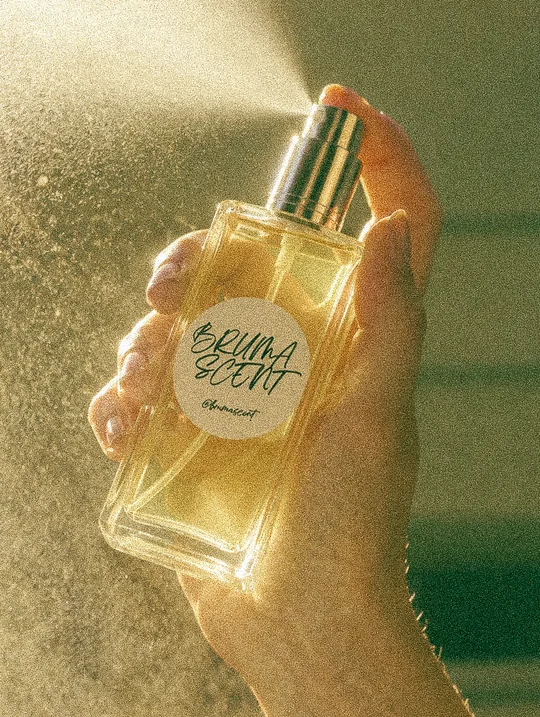
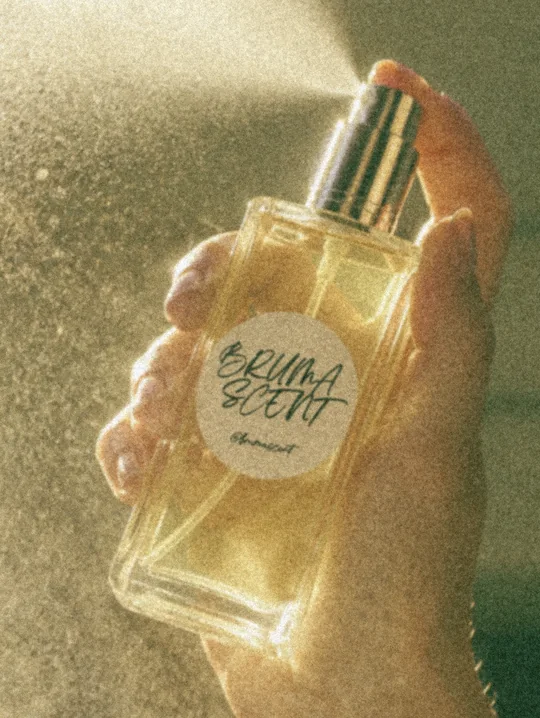
Nueva foto en la portada
Claude-Session: https://claude.ai/code/session_01GP9HaQqxfroLHMo8LTLi3x

diff --git a/index.html b/index.html
@@ -13,7 +13,7 @@
 <link rel="preconnect" href="https://fonts.googleapis.com">
 <link rel="preconnect" href="https://fonts.gstatic.com" crossorigin>
 <link rel="stylesheet" href="https://fonts.googleapis.com/css2?family=Bodoni+Moda:ital,opsz,wght@0,6..96,400;0,6..96,500;1,6..96,400&family=Jost:wght@300;400;500&display=swap">
-<link rel="stylesheet" href="estilos.css?v=12">
+<link rel="stylesheet" href="estilos.css?v=13">
 </head>
 <body>
 
@@ -35,8 +35,8 @@
   <!-- ===== PORTADA: foto de margen a margen ===== -->
   <section class="portada" aria-labelledby="portadaTit">
     <picture>
-      <source media="(max-width: 760px)" srcset="img/portada-movil.webp">
-      <img class="portada-foto" src="img/portada.webp" alt="Mano rociando un perfume Bruma Scent a contraluz" width="1086" height="1448" fetchpriority="high">
+      <source media="(max-width: 760px)" srcset="img/portada-movil.webp?v=3">
+      <img class="portada-foto" src="img/portada.webp?v=3" alt="Mano rociando un perfume Bruma Scent a contraluz" width="1086" height="1448" fetchpriority="high">
     </picture>
     <div class="portada-txt">
       <p class="portada-pre">Dupes de alta calidad</p>
@@ -97,7 +97,7 @@
         <p>Así puedes tener varios aromas para distintos momentos del día, sin gastar lo de uno solo.</p>
       </div>
       <figure class="calidad-img">
-        <img src="img/detalle.webp" alt="Frasco de Bruma Scent en la mano" width="540" height="717" loading="lazy">
+        <img src="img/detalle.webp?v=3" alt="Frasco de Bruma Scent en la mano" width="540" height="717" loading="lazy">
       </figure>
     </div>
   </section>

diff --git a/estilos.css b/estilos.css
@@ -93,7 +93,7 @@ body::before { content: ""; position: fixed; inset: 0 0 auto; height: env(safe-a
 
 .portada { position: relative; height: 100vh; height: 100svh; min-height: 600px; max-height: 1000px; overflow: hidden; }
 .portada picture, .portada-foto { display: block; width: 100%; height: 100%; }
-.portada-foto { object-fit: cover; object-position: 50% 42%; max-width: none; }
+.portada-foto { object-fit: cover; object-position: 50% 40%; max-width: none; }
 .portada::after { /* velo cálido a la izquierda para que el texto se lea */
   content: ""; position: absolute; inset: 0; pointer-events: none;
   background:
@@ -117,7 +117,7 @@ body::before { content: ""; position: fixed; inset: 0 0 auto; height: env(safe-a
   .inicio .nav { display: none; }
   .portada { height: auto; min-height: 0; max-height: none; }
   .portada picture { aspect-ratio: 3 / 4; }
-  .portada-foto { object-position: 50% 40%; }
+  .portada-foto { object-position: 50% 50%; }
   .portada::after { bottom: auto; height: calc(100vw * 4 / 3); background: linear-gradient(to top, var(--papel) 0%, rgba(251, 244, 241, 0) 18%); }
   .portada-txt { position: relative; inset: auto; gap: 10px; padding-top: 4px; padding-bottom: 40px; padding-left: max(22px, env(safe-area-inset-left, 0px)); }
   .portada h1 { font-size: 2.8rem; }
